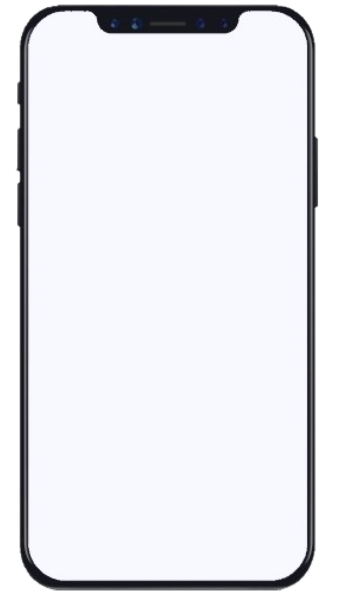
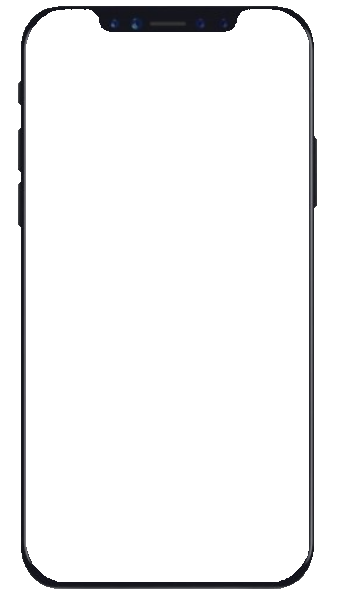
basic style changed

Changed region(s): [[0.1187, 0.0, 0.9496, 0.96], [0.0297, 0.03, 0.8605, 0.99]]

diff --git a/src/Containers/Home.js b/src/Containers/Home.js
@@ -3,24 +3,26 @@ import PropTypes from 'prop-types';
 import SignIn from '../Components/SignIn';
 import SignUp from '../Components/SignUp';
 import srcPhone from '../Images/phone.png';
+import { InfoHome } from '../Info.json';
 import './Home.css';
 
 const Home = ({ history }) => {
   const [showSignIn, setShowSignIn] = useState(true);
-
+  const { Images } = InfoHome;
   const handleComponent = () => {
     setShowSignIn(!showSignIn);
   };
 
-  // const srcImg = 'https://cdn.pixabay.com/photo/2015/09/17/14/24/guitar-944262_960_720.jpg';
+  // const srcImg = '';
 
   return (
     <div className="container">
       <div className="row home-row">
-        <picture className="col-md-6 home-column home-picture">
-          <img src={srcPhone} alt="home-img" className="home-phone" />
+        <picture className="col-md-6 home-picture">
+          <img src={srcPhone} alt="home-phone" className="home-phone" />
+          <img src={Images[1]} alt="home-img" className="home-img" />
         </picture>
-        <div className="col-md-6 home-column">
+        <div className="col-md-6 home-component">
           {showSignIn ? <SignIn history={history} handleComponent={handleComponent} />
             : <SignUp history={history} handleComponent={handleComponent} />}
         </div>

diff --git a/src/Components/SignIn.js b/src/Components/SignIn.js
@@ -46,7 +46,7 @@ const SignIn = ({ history, changeSession, handleComponent }) => {
   return (
     <Grow in timeout={1500}>
       <form className="form-signin" onSubmit={loading ? null : handleSubmit}>
-        <h2 className="text-primary">Login</h2>
+        <h2 className="text-dark">Login</h2>
         <input
           className="form-control input-signin"
           name="username"
@@ -64,7 +64,7 @@ const SignIn = ({ history, changeSession, handleComponent }) => {
           onChange={handleChange}
           required
         />
-        <button className="btn btn-primary" type="submit" disabled={loading}>
+        <button className="btn btn-dark" type="submit" disabled={loading}>
           {loading
             ? <span className="spinner-border spinner-border-sm mr-2" role="status" aria-hidden="true" />
             : null}
@@ -73,7 +73,7 @@ const SignIn = ({ history, changeSession, handleComponent }) => {
         <small>{message}</small>
         <div className="form-group">
           <button
-            className="btn bg-white text-primary btn-link"
+            className="btn bg-white text-dark btn-link"
             type="button"
             onClick={handleComponent}
           >

diff --git a/src/Components/SignUp.js b/src/Components/SignUp.js
@@ -40,7 +40,7 @@ const SignUp = ({ history, handleComponent }) => {
   return (
     <Grow in timeout={1500} appear>
       <form className="form-signup" onSubmit={loading ? null : handleSubmit}>
-        <h2 className="text-primary">Sign Up</h2>
+        <h2 className="text-dark">Sign Up</h2>
         <input
           className="form-control input-signup"
           name="username"
@@ -76,7 +76,7 @@ const SignUp = ({ history, handleComponent }) => {
           onChange={handleChange}
           required
         />
-        <button className="btn btn-primary" type="submit" disabled={loading}>
+        <button className="btn btn-dark" type="submit" disabled={loading}>
           {loading
             ? <span className="spinner-border spinner-border-sm mr-2" role="status" aria-hidden="true" />
             : null}
@@ -85,7 +85,7 @@ const SignUp = ({ history, handleComponent }) => {
         <small>{message}</small>
         <div className="form-group">
           <button
-            className="btn btn-link bg-white text-primary link-signup"
+            className="btn btn-link bg-white text-dark link-signup"
             type="button"
             onClick={handleComponent}
           >

diff --git a/src/Containers/Home.css b/src/Containers/Home.css
@@ -2,12 +2,28 @@
   padding: 2rem;
 }
 
-.home-column {
+.home-picture {
   display: flex;
-  justify-content: center;
+  justify-content: flex-end;
+  align-items: center;
+}
+
+.home-component {
+  display: flex;
+  justify-content: flex-start;
   align-items: center;
 }
 
 .home-phone {
   max-height: 30rem;
+}
+
+.home-img {
+  z-index: -1;
+  position: absolute;
+  width: 13.8rem;
+  height: 28.4rem;
+  bottom: 1rem;
+  right: 2.5rem;
+  border-radius: 2rem;
 }

diff --git a/src/Components/SignIn.css b/src/Components/SignIn.css
@@ -3,7 +3,6 @@
   flex-direction: column;
   align-items: center;
   justify-content: center;
-  margin: 3rem auto;
   width: 15rem;
 }
 

diff --git a/src/Components/SignUp.css b/src/Components/SignUp.css
@@ -3,7 +3,6 @@
   flex-direction: column;
   align-items: center;
   justify-content: center;
-  margin: 3rem auto;
   width: 15rem;
 }
 
